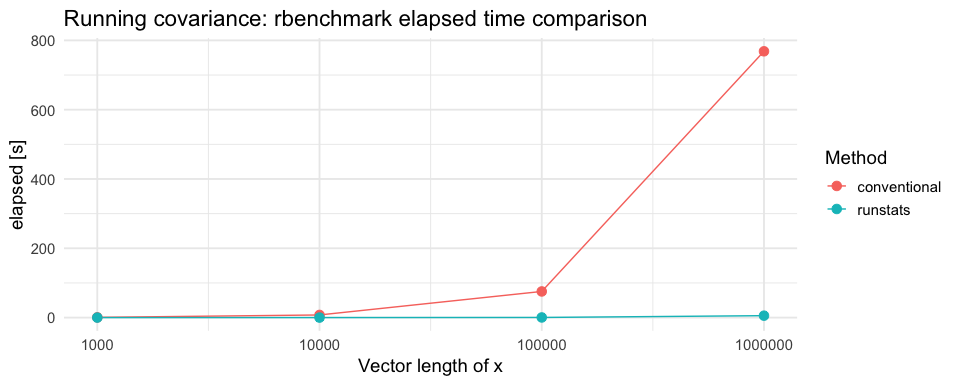
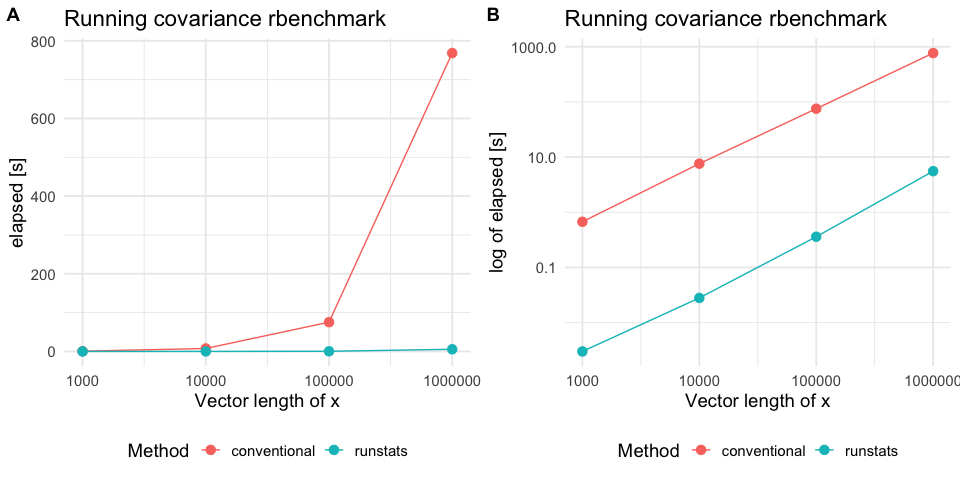
update images in readme / vignette

diff --git a/README.md b/README.md
@@ -132,12 +132,21 @@ Benchmark results
 
 ``` r
 library(ggplot2)
-ggplot(out.df2, aes(x = x_length, y = elapsed, color = test)) + 
+
+plt1 <- 
+  ggplot(out.df2, aes(x = x_length, y = elapsed, color = test)) + 
   geom_line() + geom_point(size = 3) + scale_x_log10() + 
   theme_minimal(base_size = 14) + 
   labs(x = "Vector length of x",
        y = "elapsed [s]", color = "Method", 
-       title = "Running covariance: rbenchmark elapsed time comparison")
+       title = "Running covariance rbenchmark") + 
+  theme(legend.position = "bottom")
+plt2 <- 
+  plt1 + 
+  scale_y_log10() + 
+  labs(y = "log of elapsed [s]")
+
+cowplot::plot_grid(plt1, plt2, nrow = 1, labels = c('A', 'B'))
 ```
 
 <img src="man/figures/README-unnamed-chunk-13-1.png" width="100%" />
@@ -155,5 +164,5 @@ sessioninfo::platform_info()
 #>  collate  en_US.UTF-8                 
 #>  ctype    en_US.UTF-8                 
 #>  tz       America/New_York            
-#>  date     2019-01-03
+#>  date     2019-01-11
 ```
